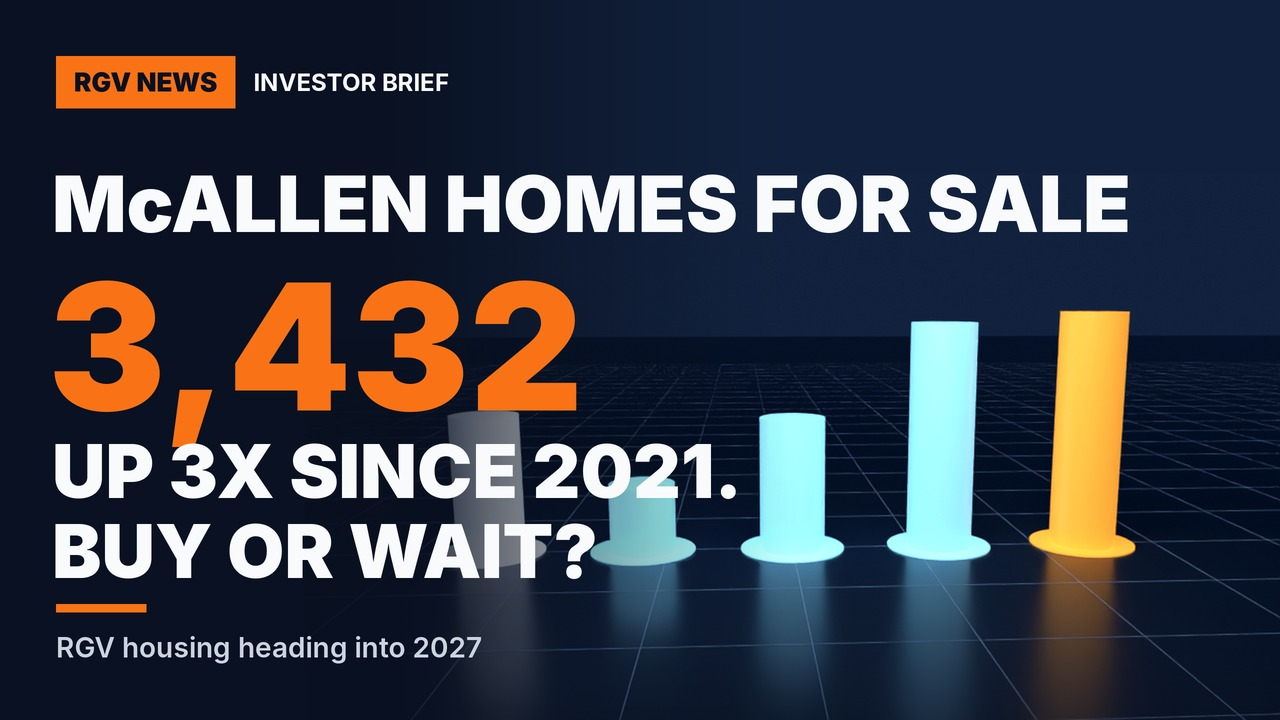
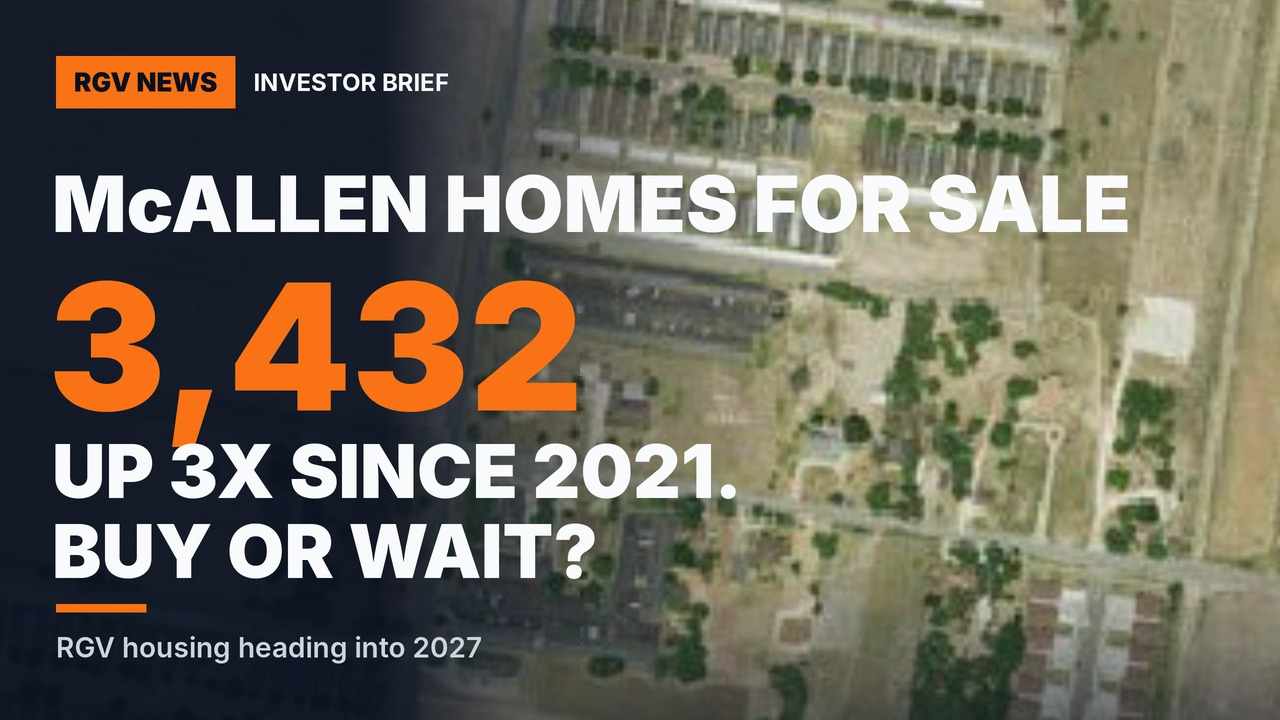
Episode 4 v2: real-aerial thumbnail and opening shot, title in description
Claude-Session: https://claude.ai/code/session_01QcZ6LP6Ck1MqykFM8CSc6G

diff --git a/episodes/2026-12-rgv-housing/make_timeline.py b/episodes/2026-12-rgv-housing/make_timeline.py
@@ -50,7 +50,7 @@ def section(tag, title, chapter, accent="orange"):
 
 B = [
     # ---------------- cold open
-    N("n00", [IMG("a_edinburg_new", 0.6, zoom=(1.12, 1.3), pan=(0.45, 0.7, 0.5, 0.95), place="North Edinburg"),
+    N("n00", [IMG("a_edinburg_sub", 0.6, zoom=(1.0, 1.15), pan=(0.45, 0.55, 0.7, 0.25), place="North Edinburg"),
               IMG("p09b", 0.4, zoom=(1.0, 1.08), place="Oregon (details blurred)", portrait=True)],
       chapter="Cold open: a 36-year high"),
     N("n01", [V(CL, 2.5, 10.5)], kinetic=K(["997", "→", "3,432"], at=6.0, size=140),

diff --git a/episodes/2026-12-rgv-housing/description_template.md b/episodes/2026-12-rgv-housing/description_template.md
@@ -1,4 +1,4 @@
-Rio Grande Valley Housing Heading Into 2027: Buyer's Market or Warning Sign?
+McAllen Housing Market 2027: Buyer's Market or Warning Sign? What Builders & Investors Need to Know
 
 The McAllen metro has more homes for sale than at any point in 36 years, and mortgage rates just climbed back above 7%. We break down what's really happening to Rio Grande Valley real estate: the listings glut, slipping prices, the rate whiplash, the gap between home prices and local incomes, and why Brownsville-Harlingen is a different market. Then what buyers, builders and lenders should do before 2027.
 
